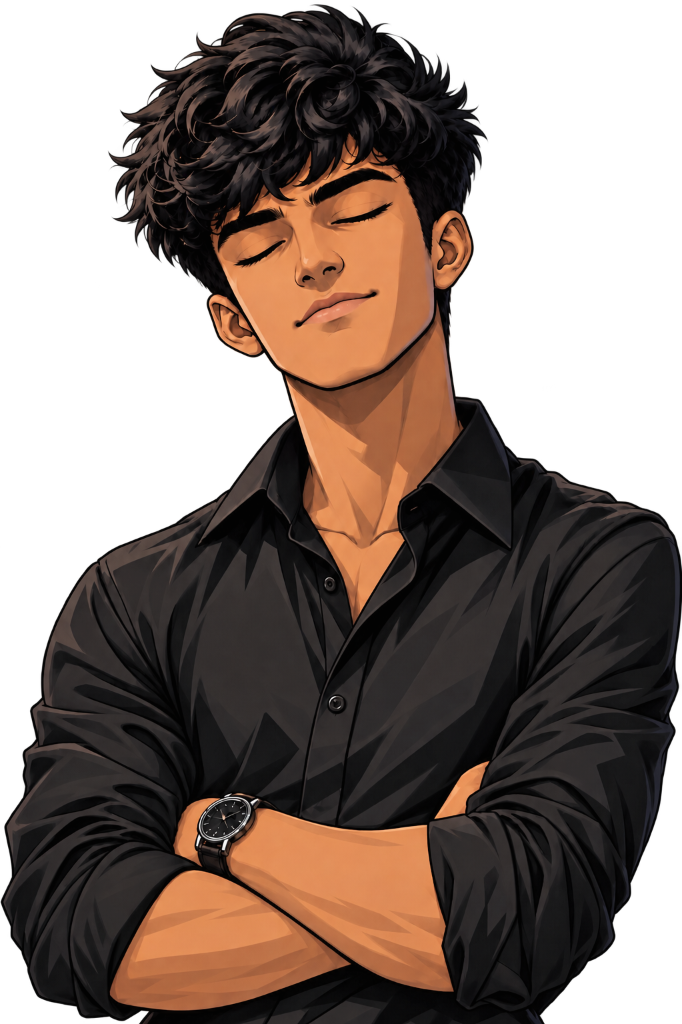
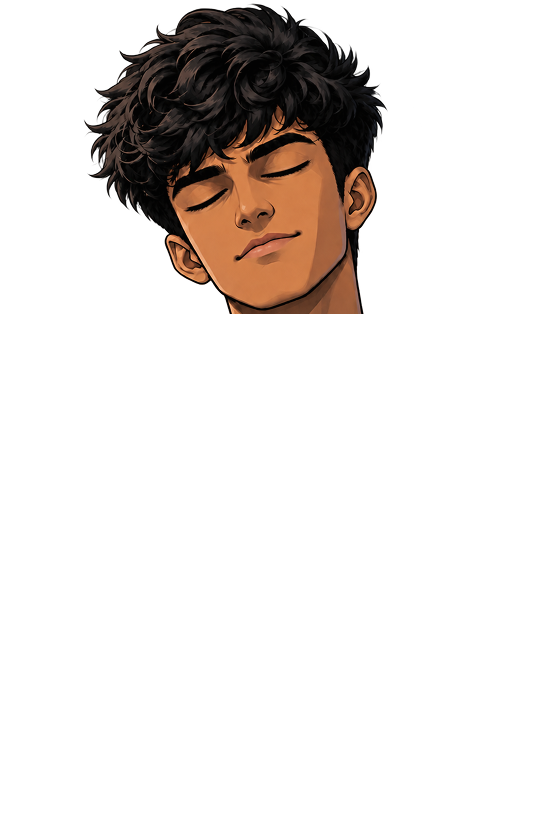
feat(hero): layered eye blink overlay architecture preserving base body brightness

diff --git a/js/main.js b/js/main.js
@@ -352,18 +352,17 @@ document.addEventListener('DOMContentLoaded', () => {
 
 // ── Character Eye Blink Cycle ──────────────────────────────
 // Intervals: 1.8s, 2.6s, 1.4s, 3.1s loop
-// Transition: Open -> Half closed -> Closed -> Half open -> Open
+// Transition: Open (overlay transparent) -> Half closed -> Closed -> Half open -> Open
 function initEyeBlink() {
-  const charImg = document.getElementById('heroCharacterImg');
-  if (!charImg) return;
+  const overlay = document.getElementById('heroCharacterOverlay');
+  if (!overlay) return;
 
   const frames = {
-    open: 'assets/aditya-character-open.png',
     half: 'assets/aditya-character-half.png',
     closed: 'assets/aditya-character-closed.png'
   };
 
-  // Pre-instantiate Image objects in memory for instant synchronous frame swap
+  // Pre-instantiate Image objects in memory for instant synchronous overlay frame swap
   Object.values(frames).forEach(src => {
     const img = new Image();
     img.src = src;
@@ -375,19 +374,20 @@ function initEyeBlink() {
 
   function performBlink() {
     // Stage 1: Half closed (40ms)
-    charImg.src = frames.half;
+    overlay.src = frames.half;
+    overlay.style.opacity = '1';
 
     setTimeout(() => {
       // Stage 2: Fully closed (70ms)
-      charImg.src = frames.closed;
+      overlay.src = frames.closed;
 
       setTimeout(() => {
         // Stage 3: Half open (40ms)
-        charImg.src = frames.half;
+        overlay.src = frames.half;
 
         setTimeout(() => {
-          // Stage 4: Fully open
-          charImg.src = frames.open;
+          // Stage 4: Fully open (hide overlay to expose base open eyes seamlessly)
+          overlay.style.opacity = '0';
 
           // Schedule next blink from the interval pattern
           const nextDelay = intervals[intervalIdx % intervals.length];
@@ -425,9 +425,9 @@ function initMagneticElements() {
 // ── Hero Subtle Interactive Parallax ────────────────────────
 function initHeroParallax() {
   const hero = document.getElementById('hero');
-  const character = document.getElementById('heroCharacterImg');
+  const charLayer = document.querySelector('.hero-character-layer');
   const wordmark = document.getElementById('heroWordmark') || document.querySelector('.hero-wordmark-container');
-  if (!hero || !character || matchMedia('(prefers-reduced-motion: reduce)').matches) return;
+  if (!hero || !charLayer || matchMedia('(prefers-reduced-motion: reduce)').matches) return;
 
   let targetX = 0, targetY = 0;
   let currentX = 0, currentY = 0;
@@ -449,8 +449,8 @@ function initHeroParallax() {
     currentX += (targetX - currentX) * 0.08;
     currentY += (targetY - currentY) * 0.08;
 
-    if (character) {
-      character.style.transform = `translate3d(${(currentX * 16).toFixed(2)}px, ${(currentY * 8).toFixed(2)}px, 0)`;
+    if (charLayer) {
+      charLayer.style.transform = `translateX(calc(-50% + ${(currentX * 16).toFixed(2)}px)) translateY(${(currentY * 8).toFixed(2)}px)`;
     }
     if (wordmark) {
       wordmark.style.transform = `translate3d(${(-currentX * 10).toFixed(2)}px, calc(-50% + ${(-currentY * 5).toFixed(2)}px), 0)`;

diff --git a/index.html b/index.html
@@ -21,9 +21,9 @@
   <link
     href="https://fonts.googleapis.com/css2?family=Bebas+Neue&family=Smooch&family=Poppins:wght@400;500;600;700&family=Syne:wght@700;800&family=Space+Grotesk:wght@500;600;700&family=Inter:wght@400;500;600;700&family=IBM+Plex+Mono:wght@400;500&display=swap"
     rel="stylesheet">
-  <link rel="stylesheet" href="css/style.css?v=55">
+  <link rel="stylesheet" href="css/style.css?v=56">
   <!-- Preload hero character animation frames for flicker-free blinking -->
-  <link rel="preload" as="image" href="assets/aditya-character-open.png">
+  <link rel="preload" as="image" href="assets/aditya-character-base.png">
   <link rel="preload" as="image" href="assets/aditya-character-half.png">
   <link rel="preload" as="image" href="assets/aditya-character-closed.png">
 </head>
@@ -261,10 +261,12 @@
         </div>
       </div>
 
-      <!-- Character portrait: Figma centered, bottom-anchored -->
+      <!-- Character portrait: Figma centered, bottom-anchored with face blink overlay -->
       <div class="hero-character-layer">
-        <img src="assets/aditya-character.png" alt="Aditya Verma - UX Designer" class="hero-character-img"
-          id="heroCharacterImg" width="572" height="859" loading="eager">
+        <img src="assets/aditya-character-base.png" alt="Aditya Verma - UX Designer" class="hero-character-img"
+          id="heroCharacterImg" width="544" height="816" loading="eager">
+        <img src="" alt="" class="hero-character-blink-overlay"
+          id="heroCharacterOverlay" width="544" height="816" aria-hidden="true">
       </div>
 
       <!-- Bottom bar: CTAs + Socials -->

diff --git a/css/style.css b/css/style.css
@@ -1119,6 +1119,22 @@ p {
   -webkit-user-drag: none;
 }
 
+.hero-character-blink-overlay {
+  position: absolute;
+  top: 0;
+  left: 0;
+  width: 100%;
+  height: 100%;
+  display: block;
+  object-fit: contain;
+  object-position: bottom center;
+  pointer-events: none;
+  user-select: none;
+  -webkit-user-drag: none;
+  opacity: 0;
+  z-index: 2;
+}
+
 /* Bottom Bar: CTAs & Socials
  * Figma: Frame 22, bottom of artboard, gap 824px between CTA and socials
  */
